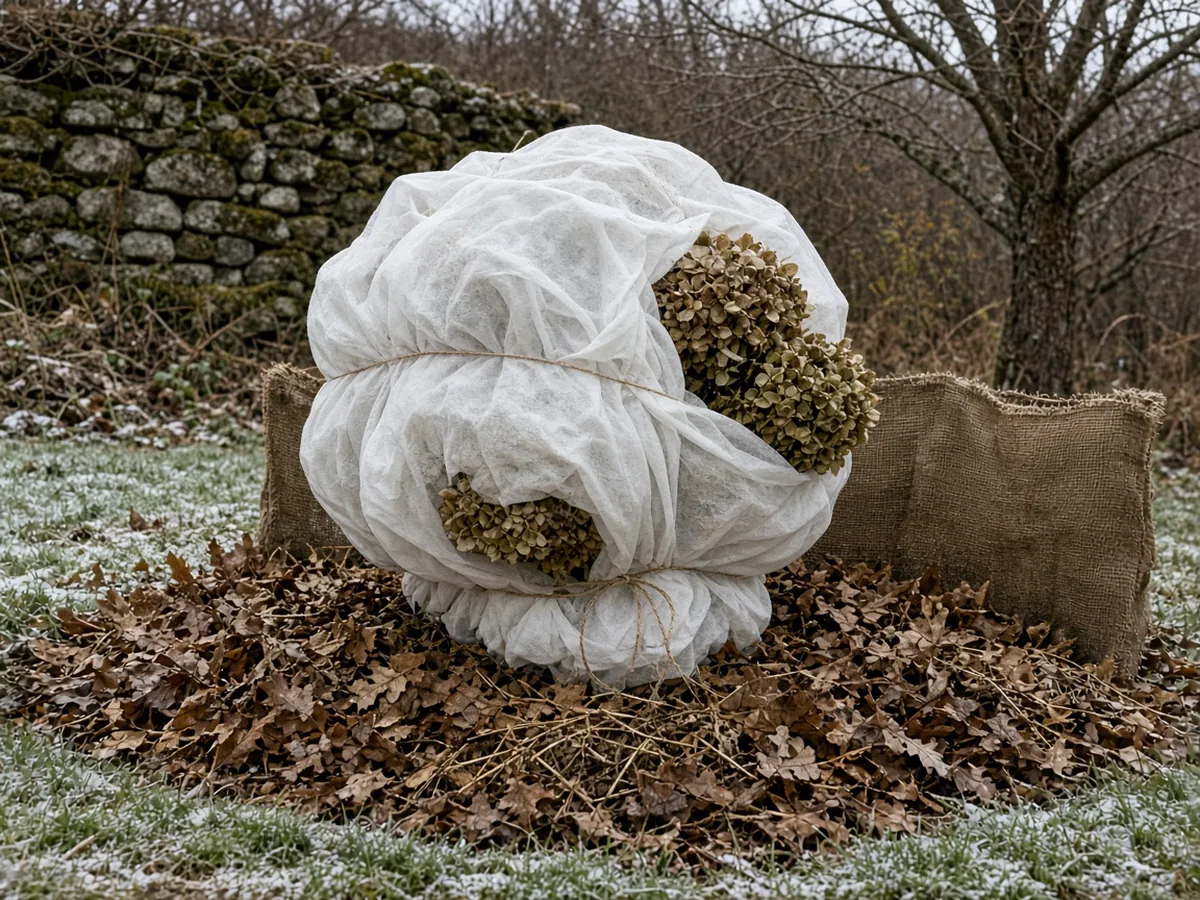
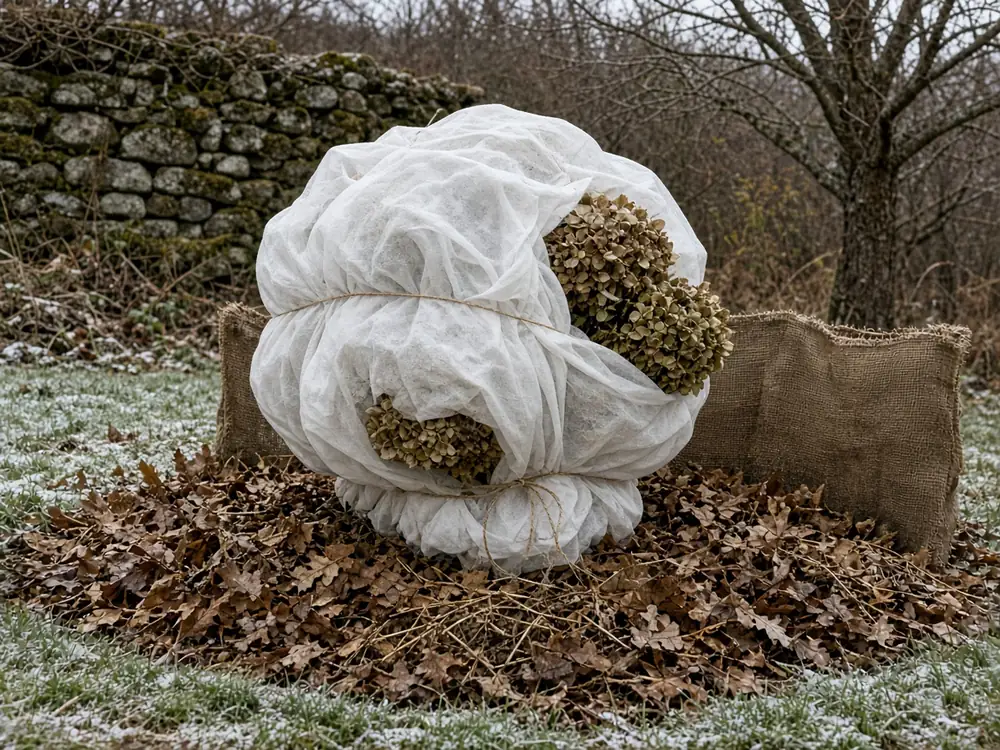
이미지 표시 문구·이미지 기록 제거, 글자 키움, 수국 글 말투 다듬기, SEO 정리
- Shot 배지(AI 장식·실물 사진 아님)와 글 하단 이미지 기록 섹션 제거, 캡션·대체 텍스트에서 AI·연출·장식 표현 제거(제작 기록은 프론트매터에만 보관)
- 본문 20px/줄간 1.8(모바일 18px), 제목·표·캡션·카드 글자 비례 확대
- 수국 월동 글을 해요체로 다듬음(사실·숫자·출처·구조 동일)
- 빈 분류·허브 목록과 검색은 noindex, follow, 사이트맵에서 제외(글이 생기면 자동 포함)
- 목록 페이지 메타 설명 60~100자로 작성
- photo-garden.webp 249KB -> 147KB
- pages.dev 주소에 X-Robots-Tag: noindex
- IndexNow 키 파일 추가

diff --git a/src/styles/global.css b/src/styles/global.css
@@ -23,8 +23,8 @@ body {
   background: var(--bg);
   color: var(--text);
   font-family: var(--font);
-  font-size: 17.5px;
-  line-height: 1.75;
+  font-size: 18.5px;
+  line-height: 1.8;
   word-break: keep-all;
   overflow-wrap: anywhere;
 }
@@ -213,10 +213,10 @@ button, input { font: inherit; color: inherit; }
 .hero-figure .thumb-chip { min-height: 32px; font-size: 14px; padding: 0 12px 0 6px; }
 .hero-figure .thumb-chip img { width: 20px; height: 20px; }
 .card-body { padding: 12px 14px 16px; display: flex; flex-direction: column; gap: 4px; }
-.card-kicker { display: inline-flex; align-items: center; gap: 6px; font-size: 13px; font-weight: 800; }
+.card-kicker { display: inline-flex; align-items: center; gap: 6px; font-size: 14.5px; font-weight: 800; }
 .card-kicker img { width: 16px; height: 16px; }
 .card-title {
-  font-size: 17px;
+  font-size: 19px;
   font-weight: 800;
   line-height: 1.45;
   letter-spacing: -0.02em;
@@ -227,14 +227,14 @@ button, input { font: inherit; color: inherit; }
 }
 .card-excerpt {
   color: var(--muted);
-  font-size: 14px;
-  line-height: 1.5;
+  font-size: 16px;
+  line-height: 1.6;
   display: -webkit-box;
   -webkit-line-clamp: 2;
   -webkit-box-orient: vertical;
   overflow: hidden;
 }
-.card-date { color: var(--muted); font-size: 13px; }
+.card-date { color: var(--muted); font-size: 14.5px; }
 
 .side-search, .search-bar {
   display: flex;
@@ -323,7 +323,7 @@ button, input { font: inherit; color: inherit; }
 .pager a[aria-current="page"] { background: var(--brand); color: #fff; border-color: var(--brand); }
 
 .article { max-width: 800px; }
-.crumbs { display: flex; flex-wrap: wrap; gap: 6px; color: var(--muted); font-size: 14px; margin-bottom: 12px; }
+.crumbs { display: flex; flex-wrap: wrap; gap: 6px; color: var(--muted); font-size: 15.5px; margin-bottom: 12px; }
 .crumbs a { color: var(--brand); font-weight: 700; min-height: 44px; display: inline-flex; align-items: center; }
 .draft-flag, .cat-pill {
   display: inline-flex;
@@ -337,8 +337,8 @@ button, input { font: inherit; color: inherit; }
 .draft-flag { background: var(--sand); color: #6a4b32; }
 .cat-pill { background: var(--sage); color: var(--brand); }
 .kicker-row { display: flex; flex-wrap: wrap; gap: 8px; align-items: center; }
-.article h1 { font-size: 34px; line-height: 1.35; letter-spacing: -0.03em; margin: 10px 0; }
-.meta-line { color: var(--muted); font-size: 15px; }
+.article h1 { font-size: 38px; line-height: 1.35; letter-spacing: -0.03em; margin: 10px 0; }
+.meta-line { color: var(--muted); font-size: 16.5px; }
 .answer-box, .callout {
   border-radius: 16px;
   padding: 16px 18px;
@@ -352,18 +352,20 @@ button, input { font: inherit; color: inherit; }
 .callout-warn { background: #f8f1e6; }
 .callout-danger { background: var(--rose); }
 .hero-figure { margin: 18px 0; }
-.hero-figure figcaption, .shot figcaption { color: var(--muted); font-size: 14px; margin-top: 8px; }
+.hero-figure figcaption, .shot figcaption { color: var(--muted); font-size: 16px; line-height: 1.6; margin-top: 8px; }
 .toc { background: #fff; border: 1px solid var(--border); border-radius: 16px; padding: 14px 18px; }
 .toc ol { margin: 8px 0 0; padding-left: 1.2em; }
 .toc a { color: var(--brand); font-weight: 700; }
-.prose { font-size: 18px; line-height: 1.75; }
-.prose h2 { font-size: 26px; line-height: 1.4; margin: 1.6em 0 0.4em; letter-spacing: -0.03em; }
-.prose h3 { font-size: 20px; margin: 1.3em 0 0.3em; }
+.prose { font-size: 20px; line-height: 1.8; }
+.prose li { margin: 0.35em 0; }
+.answer-box, .callout, .toc { font-size: 19px; line-height: 1.75; }
+.prose h2 { font-size: 30px; line-height: 1.4; margin: 1.6em 0 0.4em; letter-spacing: -0.03em; }
+.prose h3 { font-size: 23px; margin: 1.3em 0 0.3em; }
 .prose p { margin: 0.7em 0; }
 .prose ul, .prose ol { padding-left: 1.2em; }
 .prose a { color: var(--brand); font-weight: 700; text-decoration: underline; text-underline-offset: 3px; }
 .table-scroll { overflow-x: auto; margin: 16px 0; }
-table { width: 100%; border-collapse: collapse; background: #fff; font-size: 16px; }
+table { width: 100%; border-collapse: collapse; background: #fff; font-size: 18px; line-height: 1.65; }
 th, td { border-bottom: 1px solid var(--border); text-align: left; padding: 10px 12px; vertical-align: top; }
 th { background: var(--sage); }
 .sources, .image-log, .related, .prevnext { margin-top: 28px; }
@@ -371,17 +373,6 @@ th { background: var(--sage); }
 .shot { margin: 18px 0; }
 .shot-stage { position: relative; }
 .shot-open { border: 0; padding: 0; background: transparent; cursor: zoom-in; display: block; width: 100%; }
-.shot-badge {
-  position: absolute;
-  left: 10px;
-  top: 10px;
-  background: rgba(255, 250, 244, 0.94);
-  color: var(--text);
-  border-radius: 999px;
-  padding: 4px 10px;
-  font-size: 13px;
-  font-weight: 800;
-}
 .ad-note { color: var(--muted); font-size: 13px; margin: 12px 0; }
 .prevnext { display: grid; grid-template-columns: 1fr 1fr; gap: 12px; }
 .prevnext a {
@@ -426,7 +417,15 @@ dialog ol { padding-left: 1.2em; }
   .hero-banner { max-height: none; }
 }
 @media (max-width: 860px) {
-  body { font-size: 17px; }
+  body { font-size: 17.5px; }
+  .prose { font-size: 18px; line-height: 1.8; }
+  .prose h2 { font-size: 25px; }
+  .prose h3 { font-size: 21px; }
+  .answer-box, .callout, .toc { font-size: 17.5px; }
+  table { font-size: 16.5px; }
+  .hero-figure figcaption, .shot figcaption { font-size: 15px; }
+  .card-title { font-size: 18.5px; }
+  .card-excerpt { font-size: 15.5px; }
   .section-head { align-items: center; }
   .section-head h2 { font-size: 22px; }
   .section-head a { font-size: 14px; white-space: nowrap; }
@@ -458,7 +457,7 @@ dialog ol { padding-left: 1.2em; }
   .card-overlay strong { font-size: 32px; }
   .hero-figure .card-overlay h3,
   .hero-figure .card-overlay strong { font-size: 34px; }
-  .article h1, .page-head h1 { font-size: 28px; }
+  .article h1, .page-head h1 { font-size: 29px; }
   .split-list, .prevnext { grid-template-columns: 1fr; }
   .wrap { padding: 18px 16px 48px; }
   .header-inner { padding: 8px 16px; }

diff --git a/site.config.ts b/site.config.ts
@@ -25,6 +25,8 @@ export interface Category {
   /** 장식용. 작은 본문 글자에는 쓰지 않습니다. */
   pill: string;
   topics: CategoryTopic[];
+  /** 목록 페이지 메타 설명(60~100자) */
+  seoDescription?: string;
 }
 
 export interface Hub {
@@ -34,6 +36,8 @@ export interface Hub {
   /** 상위 분류가 아닌 필터이면 true */
   filter: boolean;
   icon: string;
+  /** 목록 페이지 메타 설명(60~100자) */
+  seoDescription?: string;
 }
 
 export interface NavItem {
@@ -107,6 +111,7 @@ export const siteConfig = {
     {
       id: "flowers",
       name: "꽃·꽃말",
+      seoDescription: "꽃 종류와 계절 꽃, 꽃다발·절화 물갈이, 화병 관리, 꽃말의 출처까지 꽃을 오래 예쁘게 즐기는 방법을 출처와 확인일을 붙여 정리해요.",
       description: "꽃 종류, 계절 꽃, 절화와 꽃다발, 화병 관리, 꽃말의 출처를 다룹니다.",
       tile: "#F8E8E4",
       accent: "#8C4E4A",
@@ -122,6 +127,7 @@ export const siteConfig = {
     {
       id: "plants",
       name: "식물 키우기",
+      seoDescription: "실내식물과 화분 식물의 햇빛·물주기·온도, 잎이 노랗게 변할 때, 병충해와 분갈이까지 증상부터 점검 순서대로 차근차근 정리해요.",
       description: "식물별 햇빛·물·온도, 잎 변색, 병충해, 분갈이를 증상부터 점검 순서로 정리합니다.",
       tile: "#EAF1E7",
       accent: "#416743",
@@ -137,6 +143,7 @@ export const siteConfig = {
     {
       id: "gardening",
       name: "가드닝·텃밭",
+      seoDescription: "베란다 화분과 텃밭, 허브·채소 기르기, 계절별 가드닝 작업과 초보 도구까지 집에서 시작하는 가드닝을 출처와 함께 정리해요.",
       description: "베란다 화분, 허브와 채소, 계절 작업, 초보 도구를 다룹니다.",
       tile: "#E7F0E2",
       accent: "#3E6A45",
@@ -152,6 +159,7 @@ export const siteConfig = {
     {
       id: "pets",
       name: "반려동물",
+      seoDescription: "강아지·고양이 털과 발 관리, 반려동물과 함께 키우기 안전한 식물, 침구 세탁까지 함께 사는 집의 생활 관리를 출처와 함께 정리해요.",
       description: "강아지·고양이 생활 관리, 털과 발, 식물과 함께 사는 집을 다룹니다. 질병 치료는 검증과 동물병원 상담이 먼저입니다.",
       tile: "#F8F1E6",
       accent: "#8A6232",
@@ -167,6 +175,7 @@ export const siteConfig = {
     {
       id: "home",
       name: "살림·청소",
+      seoDescription: "주방·욕실 청소, 곰팡이와 냄새, 세탁, 정리·수납, 계절별 집 관리까지 살림 고민을 장소와 오염별 해결 순서로 정리해요.",
       description: "주방, 욕실, 세탁, 냄새, 곰팡이, 정리·수납, 계절별 집 관리를 다룹니다.",
       tile: "#E7F2EA",
       accent: "#2F6A4A",
@@ -184,6 +193,7 @@ export const siteConfig = {
     {
       id: "month",
       name: "이번 달 필요한 관리",
+      seoDescription: "이번 달 실내식물과 베란다, 집 안에서 먼저 챙길 관리를 모았어요. 계절이 바뀔 때 놓치기 쉬운 일을 출처와 함께 확인해 보세요.",
       description: "이번 달에 실내 식물과 집에서 먼저 볼 일을 모읍니다.",
       filter: false,
       icon: "gardening",
@@ -191,6 +201,7 @@ export const siteConfig = {
     {
       id: "beginner",
       name: "초보자 가이드",
+      seoDescription: "화분, 꽃, 청소, 반려동물 생활을 처음 시작할 때 읽기 좋은 초보자 가이드를 모았어요. 기본 순서부터 차근차근 따라 해 보세요.",
       description: "화분, 꽃, 청소, 반려동물을 처음 시작할 때 여는 글입니다.",
       filter: false,
       icon: "flowers",
@@ -198,6 +209,7 @@ export const siteConfig = {
     {
       id: "problems",
       name: "자주 겪는 문제",
+      seoDescription: "잎 변색, 곰팡이, 냄새, 반려동물 털처럼 자주 반복되는 집안 문제를 모았어요. 증상별 원인과 해결 순서를 출처와 함께 확인해 보세요.",
       description: "잎 변색, 곰팡이, 냄새, 털처럼 반복되는 문제를 모읍니다.",
       filter: false,
       icon: "home",
@@ -205,6 +217,7 @@ export const siteConfig = {
     {
       id: "with-pets",
       name: "반려동물과 함께하는 집",
+      seoDescription: "반려동물과 함께 사는 집에서 식물과 살림을 안전하게 챙기는 글을 모았어요. 학명과 출처를 확인한 정보만 차분히 정리해요.",
       description: "반려동물이 있는 집에서 식물과 살림을 함께 볼 때 여는 글입니다.",
       filter: false,
       icon: "pets",
@@ -212,6 +225,7 @@ export const siteConfig = {
     {
       id: "season",
       name: "계절별 추천",
+      seoDescription: "계절이 바뀔 때 실내식물, 베란다 화분, 정원과 집 안에서 챙길 관리를 모았어요. 겨울나기와 봄맞이 준비를 시기별로 확인해 보세요.",
       description: "계절이 바뀔 때 실내와 베란다에서 볼 관리를 모읍니다.",
       filter: false,
       icon: "gardening",
@@ -219,6 +233,7 @@ export const siteConfig = {
     {
       id: "storage",
       name: "정리·수납",
+      seoDescription: "살림·청소 안의 정리와 수납 글을 모았어요. 선반, 바구니, 옷장과 주방 수납까지 좁은 집도 깔끔하게 쓰는 방법을 정리해요.",
       description: "살림·청소 안의 정리와 수납입니다. 여섯 번째 상위 분류가 아닙니다.",
       filter: true,
       icon: "storage",

diff --git a/src/pages/sitemap.xml.ts b/src/pages/sitemap.xml.ts
@@ -4,11 +4,19 @@ import { allPublished, postPath } from "../lib/posts";
 
 export async function GET(_context: APIContext) {
   const posts = await allPublished();
-  const staticPages = ["/", "/about/", "/sources/", "/privacy/", "/terms/", "/contact/", "/search/", "/archive/", "/flowers-plants/"];
+  const staticPages = ["/", "/about/", "/sources/", "/privacy/", "/terms/", "/contact/", "/archive/"];
   const urls = [
     ...staticPages.map((path) => ({ loc: absoluteUrl(path), lastmod: siteConfig.legalUpdated })),
-    ...siteConfig.categories.map((category) => ({ loc: absoluteUrl(`/category/${category.id}/`), lastmod: siteConfig.legalUpdated })),
-    ...siteConfig.hubs.map((hub) => ({ loc: absoluteUrl(`/hub/${hub.id}/`), lastmod: siteConfig.legalUpdated })),
+    // 발행 글이 있는 목록만 넣습니다. 빈 목록은 noindex 이고, 글이 생기면 자동으로 들어갑니다.
+    ...(posts.some((post) => post.data.category === "flowers" || post.data.category === "plants")
+      ? [{ loc: absoluteUrl("/flowers-plants/"), lastmod: siteConfig.legalUpdated }]
+      : []),
+    ...siteConfig.categories
+      .filter((category) => posts.some((post) => post.data.category === category.id))
+      .map((category) => ({ loc: absoluteUrl(`/category/${category.id}/`), lastmod: siteConfig.legalUpdated })),
+    ...siteConfig.hubs
+      .filter((hub) => posts.some((post) => post.data.hubs.includes(hub.id)))
+      .map((hub) => ({ loc: absoluteUrl(`/hub/${hub.id}/`), lastmod: siteConfig.legalUpdated })),
     ...posts.map((post) => ({ loc: absoluteUrl(postPath(post.id)), lastmod: post.data.updated })),
   ];
   const body = `<?xml version="1.0" encoding="UTF-8"?>\n<urlset xmlns="http://www.sitemaps.org/schemas/sitemap/0.9">\n${urls
